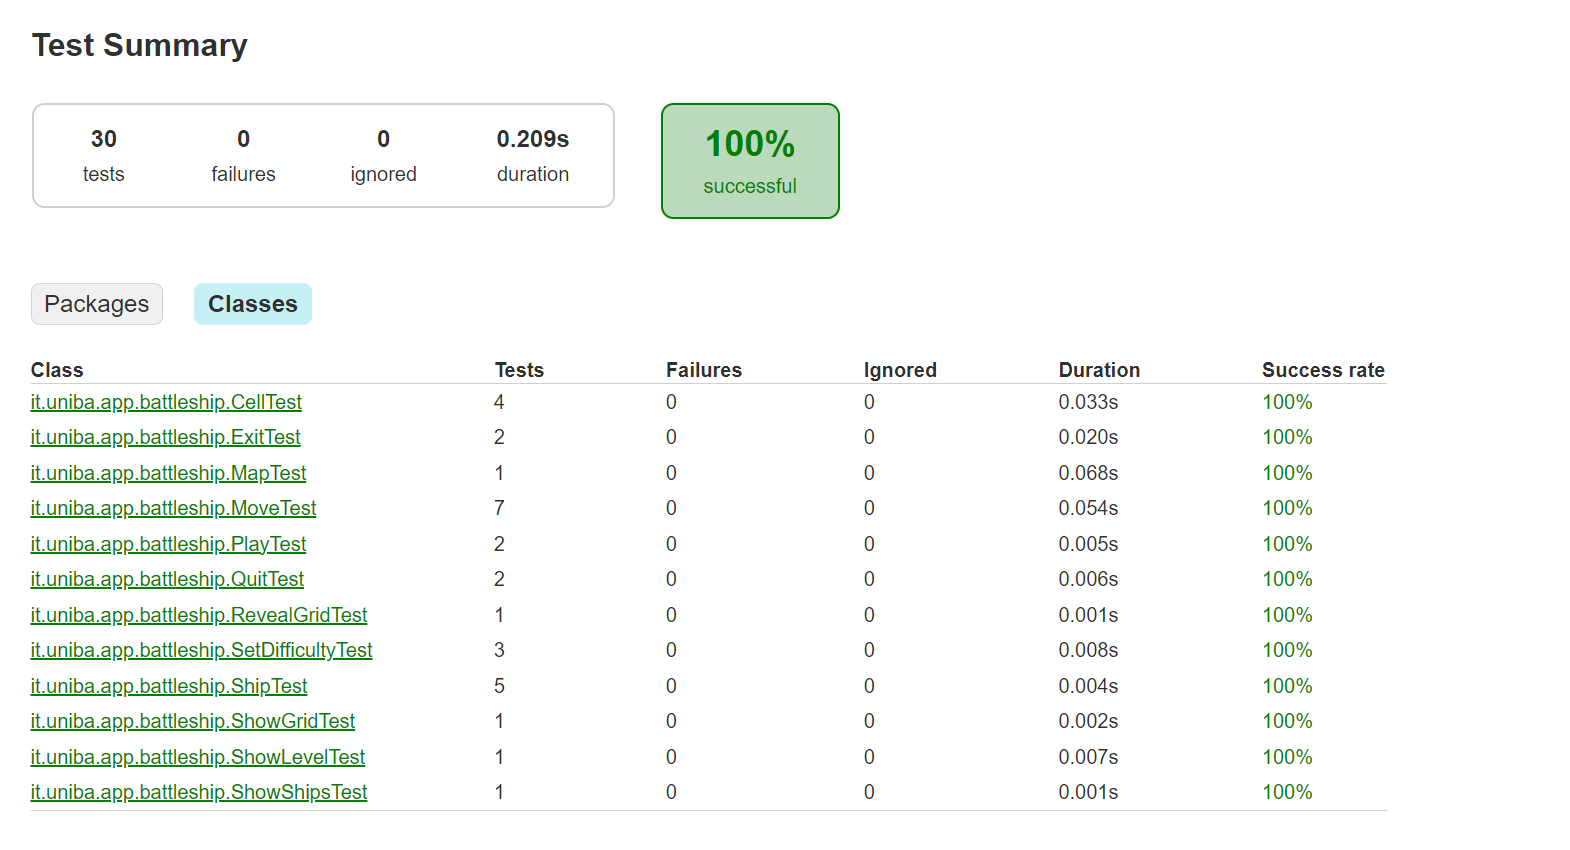
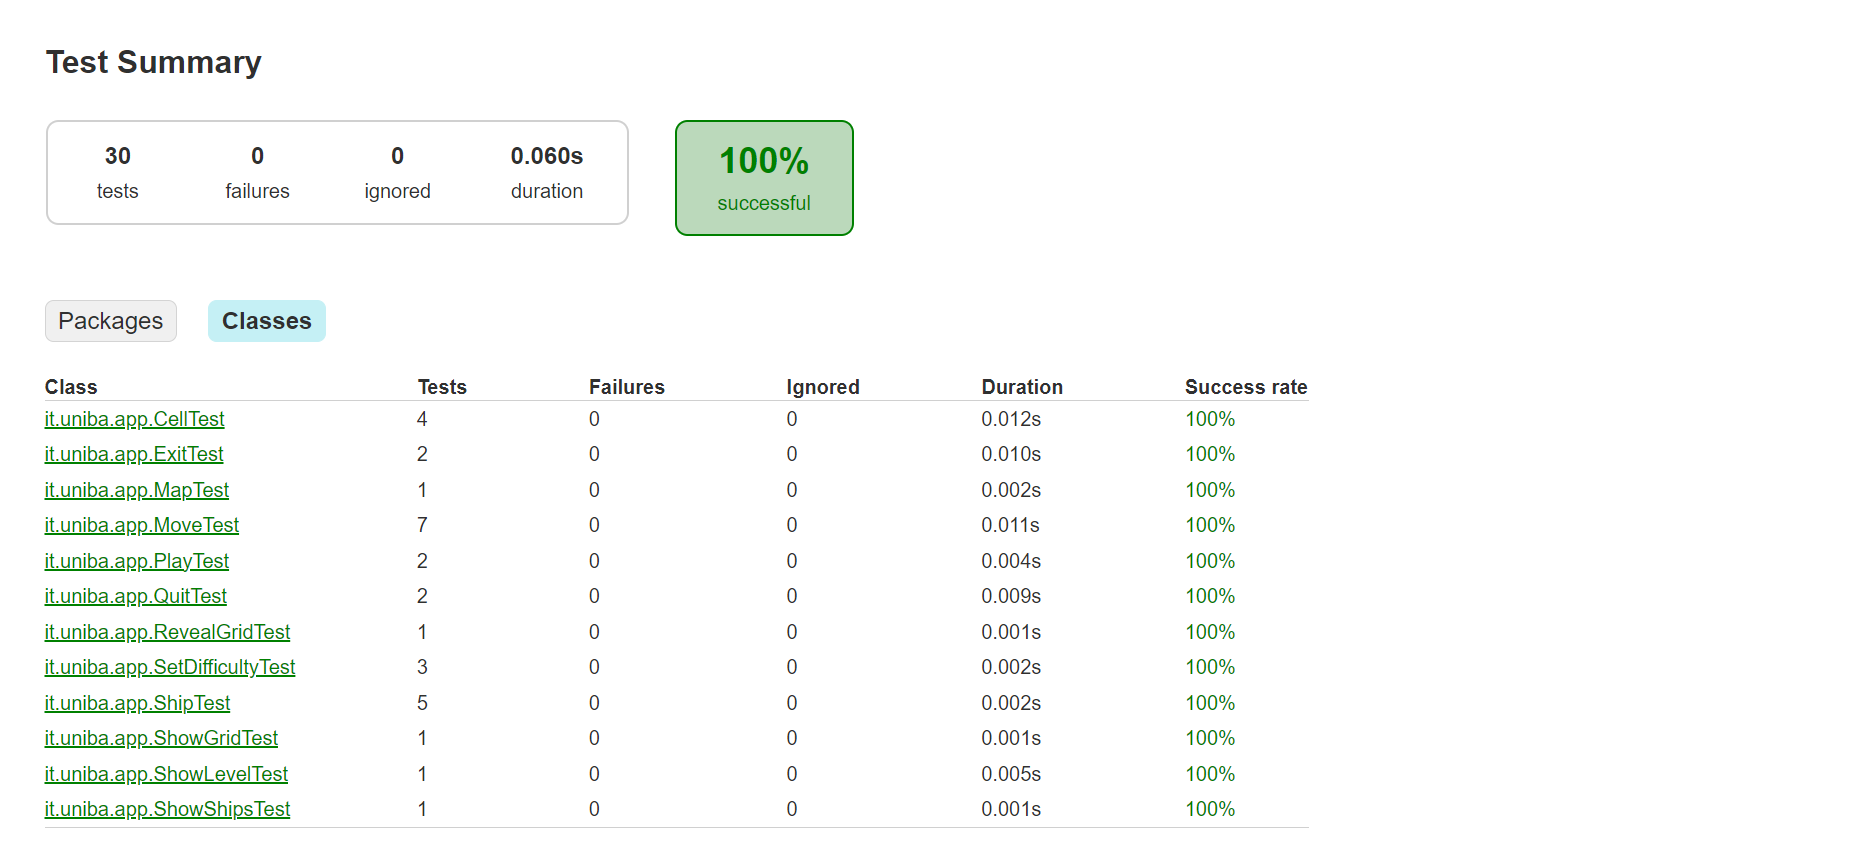
modificato paragrafo: Riepilogo del test per rispettare i cambiamenti alla struttura della cartella test

diff --git a/docs/Report.md b/docs/Report.md
@@ -280,7 +280,7 @@ Di seguito é riportata una tabella riassuntiva, contenente maggiori informazion
 
 ![Report dei test](./img/test_report.png)
 
-Come visibile dalla tabella, le classi di test facenti parte del progetto sono state inserite all'interno di un apposito package, `it.uniba.it.app.battleship`, al fine di separarle dalle classi utilitarie, inserite nel relativo package `it.uniba.it.app.utils`. <br>
+Come visibile dalla tabella, le classi di test facenti parte del progetto sono parte del package `it.uniba.it.app`, cosí da avere una struttura della cartella delle classi di test che rispecchia la struttura della cartella `main`, contenente le classi utilizzate per la definizione del progetto. In aggiunta alle classi di test, progettate per eseguire test di unitá e di integrazione tra le varie classi, é stata doverosa l'aggiunta di una classe utilitaria, `OutputHandler`. <br>
 
 La definizione della classe utilitaria `OutputHandler` é dovuta alla necessitá di voler risolvere eventuali problematiche, riscontrate durante il testing di metodi che richiedono l'analisi di stringhe di caratteri. Mediante questa classe, infatti, la stringa viene formattata in modo tale da rimuovere eventuali caratteri (o sequenze di caratteri) che potrebbero portare ad un risultato errato del test.
 
@@ -289,7 +289,7 @@ La definizione della classe utilitaria `OutputHandler` é dovuta alla necessitá
 ## **6.2 Criteri di selezione adottati**
 In merito al criterio di selezione dei metodi adottato, si é deciso di rispettare il seguente criterio di copertura:
 - Nel caso di classi di tipo _Entity_, si é cercato di verificare il corretto funzionamento di tutti i metodi pubblici, che costituiranno le interfacce di tali oggetti;
-- Nel caso della classe `App.java`, di tipo _Control_, a seguito di un Daily Scrum Meeting, é stata presa la decisione di modificare la visibilità di alcuni metodi da "privato" a "pubblico", con lo scopo di poter eseguire il testing delle singole user stories.
+- Nel caso della classe `App`, di tipo _Control_, a seguito di un Daily Scrum Meeting, é stata presa la decisione di modificare la visibilità di alcuni metodi da "privato" a "pubblico", con lo scopo di poter eseguire il testing delle singole user stories.
 
 Il cambiamento di visibilità di tali metodi non viola i principi di OO Design, in quanto la loro esecuzione consente una modifica dello stato della classe `App` in modo consistente, garantendone l'integrità dei dati. 
 
